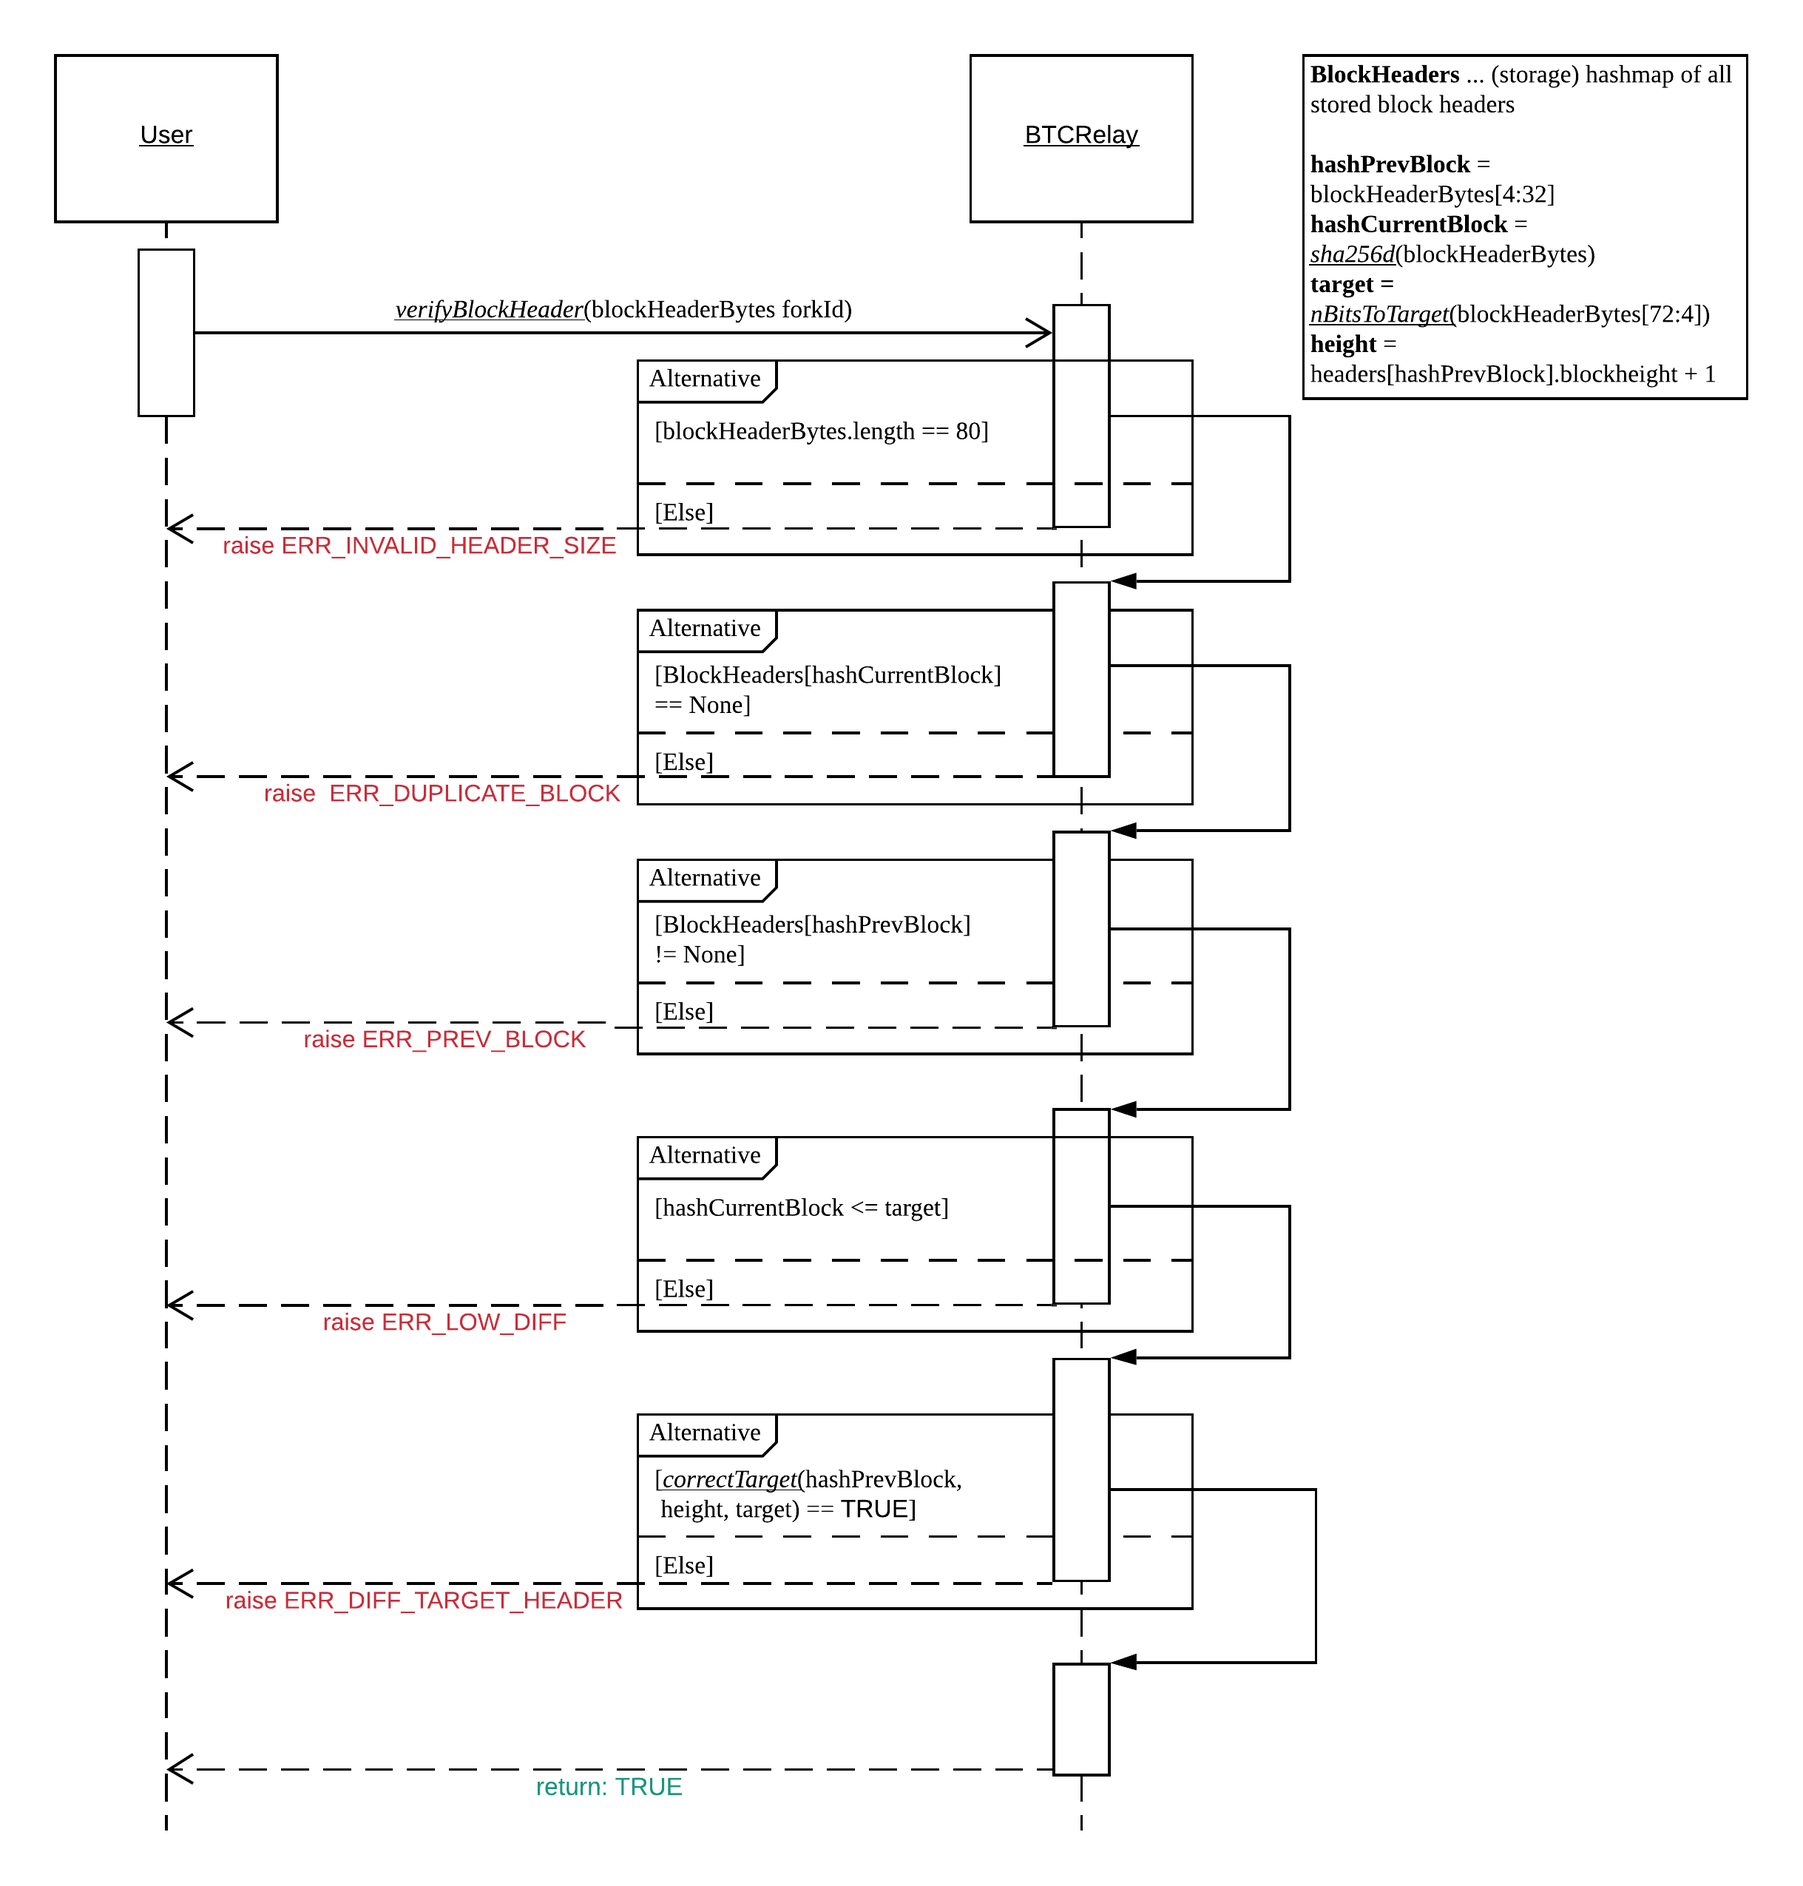
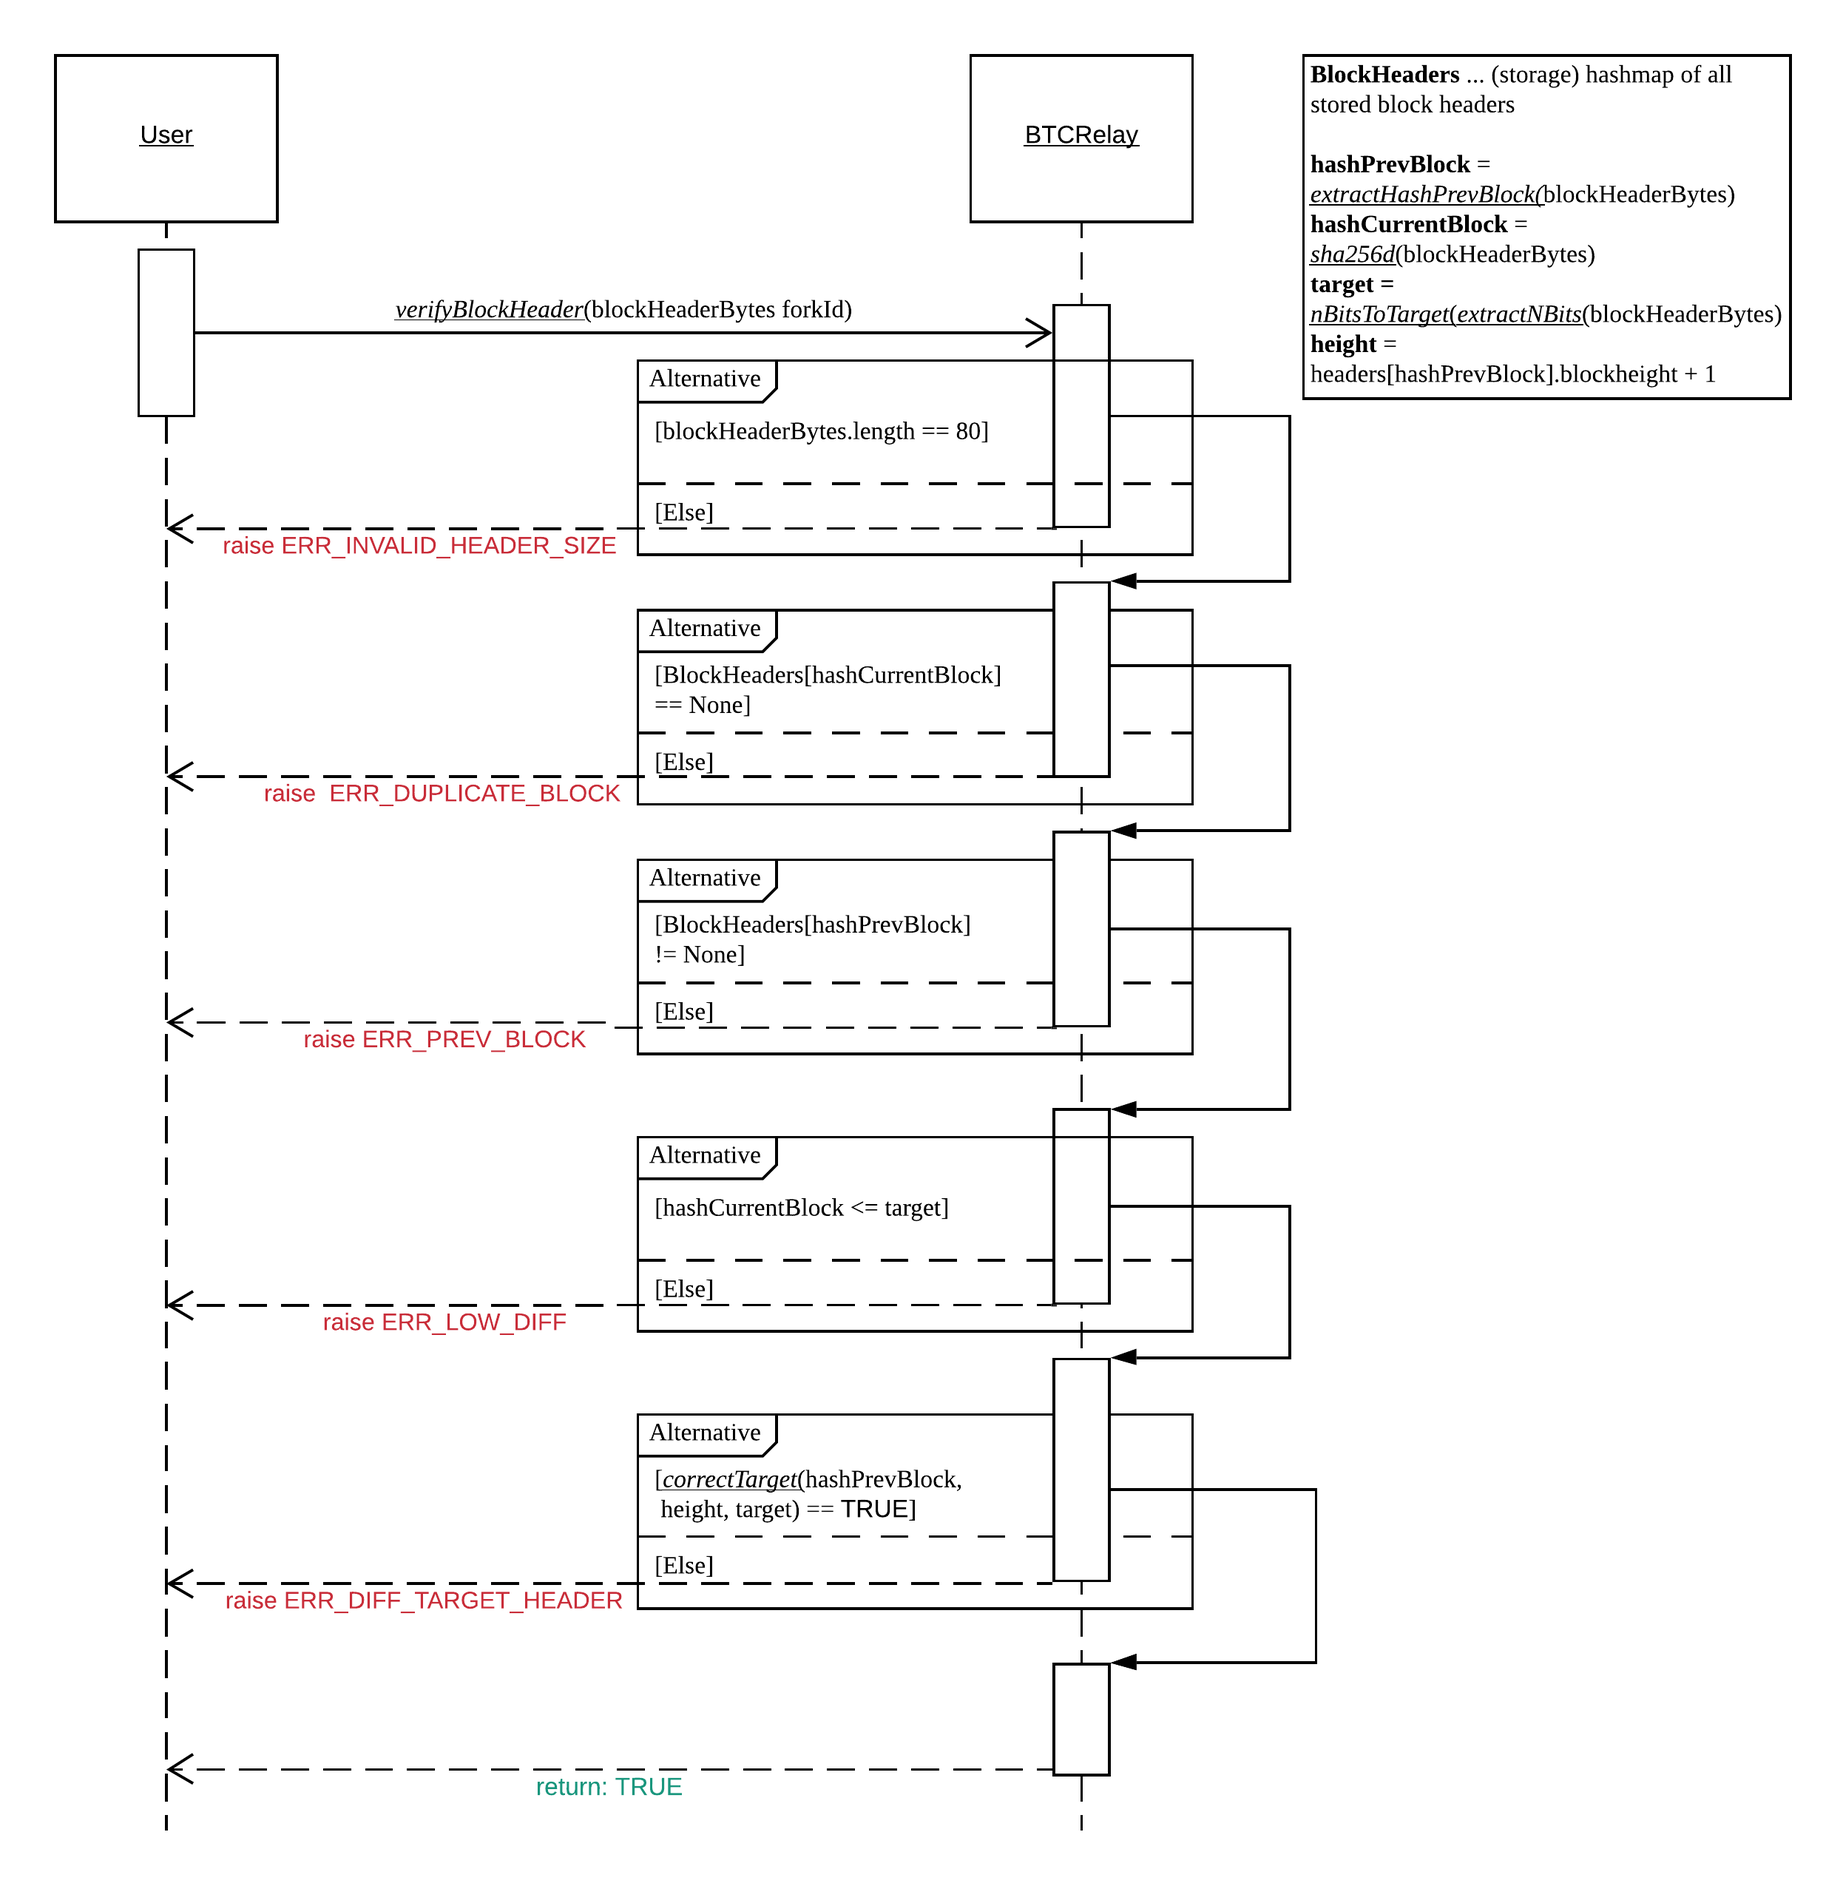
Added timestamp and target to BlockHeader. Fixed target checking and computation helpers and verifuBlockHeader

diff --git a/btcrelay-spec/docs/source/spec/functions.rst b/btcrelay-spec/docs/source/spec/functions.rst
@@ -126,17 +126,21 @@ The ``storeMainChainBlockHeader`` function takes as input the 80 byte raw Bitcoi
 
 1. Check that the submitted block header is extending the ``MainChain`` of BTC-Relay. That is, ``hashPrevBlock`` (extract using :ref:`extractHashPrevBlock`) must be equal to ``BestBlock``. Raise ``ERR_NOT_MAIN_CHAIN`` error if this check fails.
 
-2. Call :ref:`verifyTransaction` passing ``blockHeaderBytes)`` as function parameter. If this call **does not return** ``True`` (i.e., fails or returns ``False``), then abort and return ``False``. 
+2. Call :ref:`verifyBlockHeader` passing ``blockHeaderBytes)`` as function parameter. If this call **does not return** ``True`` (i.e., fails or returns ``False``), then abort and return ``False``. 
 
-3. Store the ``height`` and ``merkleRoot`` of the block header in the ``BlockHeaders`` map, using ``hashCurrentBlock`` as key.
+3. Extract the ``merkleRoot`` (:ref:`extractMerkleRoot`), ``timestamp`` (:ref:`extractTimestamp`) and ``target`` (:ref:`extractNBits` amd :ref:`nBitsToTarget`) from ``blockHeaderBytes``, and compute the block hash using :ref:`sha256d` (passing ``blockHeaderBytes`` as parameter)..
+
+4. Store the ``height``, ``merkleRoot``, ``timestamp`` and ``target`` as a new entry in the ``BlockHeaders`` map, using ``hashCurrentBlock`` as key.
 
     + ``hashCurrentBlock`` is the double SHA256 hash over the 80 bytes block header and can be calculated via :ref:`sha256d`.
     + ``merkleRoot`` is the root of the transaction Merkle tree of the block header. Use :ref:`extractMerkleRoot` to extract from block header. 
     + ``height`` is the blockchain height of the submitted block header. Compute by incrementing the height of the block header referenced by ``hashPrevBlock`` (retrieve from ``BlockHeaders`` using ``hashPrevBlock`` as key).
 
-3. Emit a ``StoreMainChainBlockHeader`` event using ``height`` and ``hashCurrentBlock`` as input (``StoreMainChainHeader(height, hashCurrentBlock)``). 
+5. Store ``hashCurrentBlock`` as a new entry in ``MainChain``, using ``blockHeight`` as key.
 
-4. Return ``True``.
+6. Emit a ``StoreMainChainBlockHeader`` event using ``height`` and ``hashCurrentBlock`` as input (``StoreMainChainHeader(height, hashCurrentBlock)``). 
+
+7. Return ``True``.
  
 
 .. figure:: ../figures/storeMainChainBlockHeader-sequence.png
@@ -198,7 +202,7 @@ Function Sequence
 
 The ``storeForkBlockHeader`` function takes as input the 80 byte raw Bitcoin block header and a ``forkId`` and follows the following sequence:
 
-1.  Call :ref:`verifyTransaction` passing ``blockHeaderBytes`` as parameter. If this call **does not return** ``True`` (i.e., fails or returns ``False``), then abort and return ``False``. 
+1.  Call :ref:`verifyBlockHeader` passing ``blockHeaderBytes`` as parameter. If this call **does not return** ``True`` (i.e., fails or returns ``False``), then abort and return ``False``. 
 
 2. Check if ``forkId == -1``.
 
@@ -211,17 +215,19 @@ The ``storeForkBlockHeader`` function takes as input the 80 byte raw Bitcoin blo
         b.2) Check that the ``hashPrevBlock`` of the submitted block header indeed references the last block submitted to the fork, specified by ``forkId``. Raise ``ERR_FORK_PREV_BLOCK`` exception and abort if this check fails.
 
 
-3. Store the ``height`` and ``merkleRoot`` of the block header in the ``blockHeaders`` map, using ``hashCurrentBlock`` as key (compute using :ref:`sha256d`).
+3. Extract the ``merkleRoot`` (:ref:`extractMerkleRoot`), ``timestamp`` (:ref:`extractTimestamp`) and ``target`` (:ref:`extractNBits` amd :ref:`nBitsToTarget`) from ``blockHeaderBytes``, and compute the block hash using :ref:`sha256d` (passing ``blockHeaderBytes`` as parameter).
 
-4. Update ``Fork[forkId]`` entry, incrementing the fork ``length`` and inserting ``hashCurrentBlock`` into the list of block hashes contained in that fork (``forkBlockHashes``).  
+4. Store the ``height``, ``merkleRoot``, ``timestamp`` and ``target`` as a new entry in the ``blockHeaders`` map, using ``hashCurrentBlock`` as key (compute using :ref:`sha256d`).
 
-5. Emit a ``StoreForkBlockHeader`` event using ``height`` and ``hashCurrentBlock`` as input (``StoreMainChainHeader(height, hashCurrentBlock)``). 
+5. Update ``Fork[forkId]`` entry, incrementing the fork ``length`` and inserting ``hashCurrentBlock`` into the list of block hashes contained in that fork (``forkBlockHashes``).  
 
-6. Check if the fork at ``forkId`` has become longer than the current ``MainChain``. This is the case if the block height ``height`` of the submitted block header exceeds the ``BestBlockHeight``. 
+6. Emit a ``StoreForkBlockHeader`` event using ``height`` and ``hashCurrentBlock`` as input (``StoreMainChainHeader(height, hashCurrentBlock)``). 
+
+7. Check if the fork at ``forkId`` has become longer than the current ``MainChain``. This is the case if the block height ``height`` of the submitted block header exceeds the ``BestBlockHeight``. 
 
     a. If ``height > BestBlockHeight`` call ``chainReorg(forkId)`` and return the value returned form this call.
 
-4. Return ``True``.
+8. Return ``True``.
 
 .. figure:: ../figures/storeForkBlockHeader-sequence.png
     :alt: storeForkBlockHeader sequence diagram
@@ -280,9 +286,9 @@ The ``verifyBlockHeader`` function takes as input the 80 byte raw Bitcoin block 
 
 1. Check that the ``blockHeaderBytes`` is 80 bytes long. Raise ``ERR_INVALID_HEADER_SIZE`` exception and abort otherwise.
 2. Check that the block header is not yet stored in BTC-Relay (``blockHash`` is unique in ``blockHeaders``). Raise ``ERR_DUPLICATE_BLOCK`` exception and abort otherwise. 
-3. Check that the previous block referenced by the submitted block header (``hashPrevBlock``) exists in ``BlockHeaders``. Raise ``ERR_PREV_BLOCK`` exception and abort otherwise. 
+3. Check that the previous block referenced by the submitted block header (``hashPrevBlock``, extract using :ref:`extractHashPrevBlock`) exists in ``BlockHeaders``. Raise ``ERR_PREV_BLOCK`` exception and abort otherwise. 
 4. Check that the Proof-of-Work hash (``blockHash``) is below the ``target`` specified in the block header. Raise ``ERR_LOW_DIFF`` exception and abort otherwise.
-5. Check that the ``target`` specified in the block header is correct by calling ``correctTarget(hashPrevBlock, height, target)`` (as per Bitcoin's difficulty adjustment mechanism, see `here <https://github.com/bitcoin/bitcoin/blob/78dae8caccd82cfbfd76557f1fb7d7557c7b5edb/src/pow.cpp>`_). If this call returns ``False``, raise ``ERR_DIFF_TARGET_HEADER`` exception and abort. 
+5. Check that the ``target`` specified in the block header (extract using :ref:`extractNBits` and :ref:`nBitsToTarget`) is correct by calling :ref:`checkCorrectTarget` passing ``hashPrevBlock``, ``height`` and ``target`` as parameters (as per Bitcoin's difficulty adjustment mechanism, see `here <https://github.com/bitcoin/bitcoin/blob/78dae8caccd82cfbfd76557f1fb7d7557c7b5edb/src/pow.cpp>`_). If this call returns ``False``, raise ``ERR_DIFF_TARGET_HEADER`` exception and abort. 
 6. Return ``True``
 
 .. figure:: ../figures/verifyBlockHeader-sequence.png

diff --git a/btcrelay-spec/docs/source/spec/data-model.rst b/btcrelay-spec/docs/source/spec/data-model.rst
@@ -73,6 +73,7 @@ Integer block height of ``BestBlock`` in ``MainChain``.
 
   BestBlockHeight: U256;
 
+
 Maps
 ~~~~
 
@@ -87,7 +88,7 @@ Mapping of ``<blockHash,BlockHeader>``, storing all verified Bitcoin block heade
 
 MainChain
 .........
-Mapping of ``<blockHeight,blockHash>``. Tracks the current Bitcoin main chain (refers to stored block headers in ``BlockHeaders``).
+Mapping of ``<blockHeight,blockHash>`` (``<u256, byte32>``). Tracks the current Bitcoin main chain (refers to stored block headers in ``BlockHeaders``).
 
 *Substrate* ::
 
@@ -96,7 +97,7 @@ Mapping of ``<blockHeight,blockHash>``. Tracks the current Bitcoin main chain (r
 Forks
 .....
 
-Mapping of ``<forkId,Fork>``.
+Mapping of ``<forkId,Fork>`` (``<u256, Fork>``), tracking ongoing forks in BTC-Relay.
 
 
 *Substrate* ::
@@ -111,12 +112,14 @@ BlockHeader
 
 .. tabularcolumns:: |l|l|L|
 
-======================  =========  ============================================
+======================  =========  ========================================================================
 Parameter               Type       Description
-======================  =========  ============================================
-``blockHeight``         U256       Height of the current block header.
-``merkleRoot``          H256       Root of the Merkle tree referencing transactions included in the block.
-======================  =========  ============================================
+======================  =========  ========================================================================
+``blockHeight``         u256       Height of this block in the Bitcoin main chain.
+``merkleRoot``          byte32     Root of the Merkle tree referencing transactions included in the block.
+``target``              u256       Difficulty target of this block.
+``timestamp``           timestamp  UNIX timestamp indicating when this block was mined in Bitcoin.
+======================  =========  ========================================================================
 
 *Substrate* 
 
@@ -124,9 +127,11 @@ Parameter               Type       Description
 
   #[derive(Encode, Decode, Default, Clone, PartialEq)]
   #[cfg_attr(feature = "std", derive(Debug))]
-  pub struct BlockHeader<H256> {
+  pub struct BlockHeader<H256, Moment> {
         blockHeight: U256,
-        merkleRoot: H256 
+        merkleRoot: H256,
+        target: U256,
+        timestamp: Moment
   }
   
 
@@ -137,11 +142,11 @@ Fork
 .. tabularcolumns:: |l|l|L|
 
 ======================  =============  ===========================================================
-Parameter               Type           Description
+Parameter               Types          Description
 ======================  =============  ===========================================================
-``startHeight``         U256           Height of the block at which this fork starts (forkpoint).
-``length``              U256           Length of the fork (in blocks).
-``forkBlockHashes``     Vec<H256>      Linked hash set of block hashes, which references Bitcoin block headers stored in ``BlockHeaders``, contained in this fork (maintains insertion order).
+``startHeight``         u256           Height of the block at which this fork starts (forkpoint).
+``length``              u256           Length of the fork (in blocks).
+``forkBlockHashes``     byte32[]       List  of block hashes, which references Bitcoin block headers stored in ``BlockHeaders``, contained in this fork (in insertion order).
 ======================  =============  ===========================================================
 
 *Substrate*

diff --git a/btcrelay-spec/docs/source/spec/helpers.rst b/btcrelay-spec/docs/source/spec/helpers.rst
@@ -128,7 +128,7 @@ Verifies the currently submitted block header has the correct difficulty target.
 
 *Returns*
 
-* ``True``: if correct difficulty target is found.
+* ``True``: if the difficulty target is set correctly.
 * ``False``: otherwise.
 
 *Substrate*
@@ -150,7 +150,7 @@ Function Sequence
         i. If the target difficulties match, return ``True``.
         ii. Otherwise, return ``False``.
 
-    b. The difficulty should be adjusted. Call the `computeNewTarget`_ function to get the correct target difficulty. Check that the new target difficulty matches ``target``.
+    b. The difficulty should be adjusted. Calculate the new expected target by calling the `computeNewTarget`_ function and passing the timestamp of the previous block (get using ``hashPrevBlock`` key in ``BlockHeaders``), the timestamp of the last re-target (get block hash from ``MainChain`` using ``blockHeight - 2016`` as key, then query ``BlockHeaders``) and the target of the previous block (get using ``hashPrevBlock`` key in ``BlockHeaders``) as parameters. Check that the new target matches the ``target`` of the current block (i.e., the block's target was set correctly).
 
         i. If the new target difficulty matches ``target``, return ``True``.
         ii. Otherwise, return ``False``.

diff --git a/btcrelay-spec/docs/source/spec/parser.rst b/btcrelay-spec/docs/source/spec/parser.rst
@@ -10,7 +10,7 @@ See the Bitcoin Developer Reference for details on the `block header <https://bi
 Block Header 
 ------------
 
-:: _extractHashPrevBlock_ 
+.. _extractHashPrevBlock:
 
 extractHashPrevBlock
 ~~~~~~~~~~~~~~~~~~~~
@@ -104,3 +104,40 @@ Function Sequence
 
 1. Return ``blockHeaderBytes[72:4]`` (``nBits`` starts at position 72 of the 80 byte block header).
 
+
+.. _extractTimestamp:
+
+extractTimestamp
+~~~~~~~~~~~~~~~~~
+
+Extracts the timestamp from the block header.
+
+*Function Signature*
+
+``extractTimestamp(blockHeaderBytes)``
+
+*Parameters*
+
+* ``blockHeaderBytes``: 80 byte raw Bitcoin block header
+
+*Returns*
+
+* ``timestamp``: timestamp representation of the 4 byte timestamp field of the block header
+
+*Substrate*
+
+::
+
+  fn extractTimestamp(blockHeaderBytes: T::BTCBlockHeader) -> T::Moment {...}
+
+Function Sequence
+.................
+
+1. Return ``blockHeaderBytes[68:4]`` (``timestamp`` starts at position 68 of the 80 byte block header).
+
+
+
+Transactions 
+-------------
+
+.. todo:: The parser functions used for transaction processing (called by other modules) will be added on demand. See PolkaBTC specification for more details.
